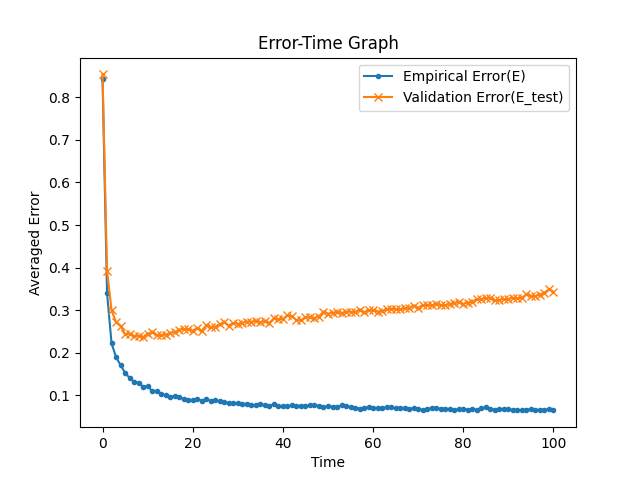
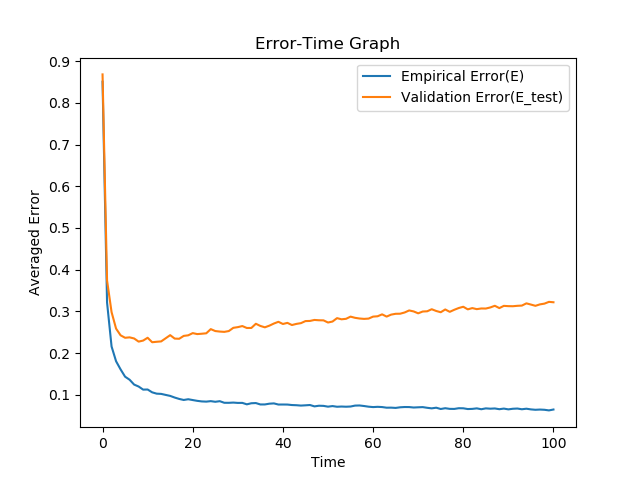
abc

diff --git a/experiment6.py b/experiment6.py
@@ -1,0 +1,160 @@
+from Network import Model
+from readdata import *
+from matplotlib import pyplot as plt
+import numpy as np
+
+"""
+Experiment Description
+----------------------
+	Effects of different learning rates on empirical and validation error
+"""
+
+R=10 #The average error on R runs of the training is taken
+
+P=200
+# Q=[int(p/2) for p in P]
+Q=200
+
+learning_rates = [0.05,0.1,0.2,0.4,0.8]
+t_max = 100 #total epochs
+
+
+Errors_for_different_LRs =[]
+Error_test_for_different_LRs = []
+
+
+
+trainX,trainY,testX,testY = read_file("xi(1).csv","tau(1).csv",P,Q)
+
+print(learning_rates)
+
+for learning_rate in learning_rates:
+	print("==================")
+	print("iteration for learning_rate = "+str(learning_rate))
+
+
+	Es = []
+	E_tests = []
+
+	for y in range(0,R):
+		print("\t Run "+str(y)+" of "+str(R))
+		model = Model(input_size=len(trainX[0]))
+
+		model.add_layer(states = 2,activation = 'tanh',fixed_weights=False)
+		model.add_layer(states =1,activation = None,fixed_weights=1)
+
+		E,E_test=model.train(trainX,trainY,testX,testY,ephochs=t_max,learning_rate=learning_rate)
+
+
+		Es.append(E)
+		E_tests.append(E_test)
+
+
+	average_E = np.average(Es,axis=0)
+	average_Etest = np.average(E_tests,axis = 0)
+
+	Errors_for_different_LRs.append(average_E)
+	Error_test_for_different_LRs.append(average_Etest)
+
+
+# print(Errors_for_different_Ps)
+
+
+for index,error in enumerate(Errors_for_different_LRs):
+	plt.plot(error,label="Learning rate ="+str(learning_rates[index]))#,label="Empirical Error(E)")
+
+
+plt.title("Error-Time Graph")
+plt.xlabel('Time')
+plt.ylabel('Average Empirical Error (E)')
+
+plt.legend()
+
+plt.savefig('Experiment6_empirical_loss_for_different_learning_rates.png')
+plt.show()
+
+
+
+for index,error in enumerate(Error_test_for_different_LRs):
+	plt.plot(error,label="Learning rate ="+str(learning_rates[index]))#,label="Empirical Error(E)")
+
+
+plt.title("Error-Time Graph")
+plt.xlabel('Time')
+plt.ylabel('Average Validation Error (E_test)')
+
+plt.legend()
+
+plt.savefig('Experiment6_validation_loss_for_different_learning_rates.png')
+plt.show()
+
+
+
+
+
+#######################
+### Now using time-dependent learning rates
+print("Using time-dependent learning rates")
+
+########################
+Errors_for_different_LRs =[]
+Error_test_for_different_LRs = []
+for learning_rate in learning_rates:
+	print("==================")
+	print("iteration for learning_rate = "+str(learning_rate))
+
+
+	Es = []
+	E_tests = []
+
+	for y in range(0,R):
+		print("\t Run "+str(y)+" of "+str(R))
+		model = Model(input_size=len(trainX[0]))
+
+		model.add_layer(states = 2,activation = 'tanh',fixed_weights=False)
+		model.add_layer(states =1,activation = None,fixed_weights=1)
+
+		E,E_test=model.train(trainX,trainY,testX,testY,ephochs=t_max,learning_rate=learning_rate,learning_rate_decay=0.01)
+
+
+		Es.append(E)
+		E_tests.append(E_test)
+
+
+	average_E = np.average(Es,axis=0)
+	average_Etest = np.average(E_tests,axis = 0)
+
+	Errors_for_different_LRs.append(average_E)
+	Error_test_for_different_LRs.append(average_Etest)
+
+
+# print(Errors_for_different_Ps)
+
+
+for index,error in enumerate(Errors_for_different_LRs):
+	plt.plot(error,label="Initial learning rate ="+str(learning_rates[index]))#,label="Empirical Error(E)")
+
+
+plt.title("Error-Time Graph")
+plt.xlabel('Time')
+plt.ylabel('Average Empirical Error (E)')
+
+plt.legend()
+
+plt.savefig('Experiment6_empirical_loss_for_different_time_dependent_learning_rates.png')
+plt.show()
+
+
+
+for index,error in enumerate(Error_test_for_different_LRs):
+	plt.plot(error,label="Initial learning rate ="+str(learning_rates[index]))#,label="Empirical Error(E)")
+
+
+plt.title("Error-Time Graph")
+plt.xlabel('Time')
+plt.ylabel('Average Validation Error (E_test)')
+
+plt.legend()
+
+plt.savefig('Experiment6_validation_loss_for_different_time_dependent_learning_rates.png')
+plt.show()

diff --git a/Network.py b/Network.py
@@ -89,7 +89,7 @@ class Model():
 
 
 
-	def train(self, x_train,y_train,x_test,y_test,ephochs=10,learning_rate=0.05,verbose=False):
+	def train(self, x_train,y_train,x_test,y_test,ephochs=10,learning_rate=0.05,learning_rate_decay=False,verbose=False,return_weights=False):
 		self.learning_rate = learning_rate
 		if x_train.shape[1]!=self.input_size:
 			print("Data shape does not match model shape")
@@ -103,6 +103,11 @@ class Model():
 		generalization_loss.append(self.__MSE(x_test,y_test))
 
 
+		initial_weights = []
+		finial_weights = []
+		if return_weights:
+			initial_weights = np.copy(self.layers[0].weights)
+
 		if verbose:
 			print("\n\n=============================")
 			print("----------------------------")
@@ -115,7 +120,6 @@ class Model():
 
 
 		for epoch in range(0,ephochs):
-			# self.display()
 			if verbose:
 				print("\n\n=============================")
 				print("Epoch "+str(epoch+1))
@@ -140,11 +144,10 @@ class Model():
 
 
 
-			
-			loss_.append(self.__MSE(x_train,y_train))
+			if not return_weights:
+				loss_.append(self.__MSE(x_train,y_train))
 
-			generalization_loss.append(self.__MSE(x_test,y_test))
-
+				generalization_loss.append(self.__MSE(x_test,y_test))
 
 			if verbose:
 				print("----------------------------")
@@ -152,5 +155,16 @@ class Model():
 				print("EPOCH VALIDATION ERROR = ",generalization_loss[-1])
 				
 				print("==========================")
+			# self.display()
 
-		return loss_,generalization_loss
+			if learning_rate_decay != False:
+				new_LR= self.learning_rate - (self.learning_rate*learning_rate_decay)
+				if new_LR > 0:
+					self.learning_rate = new_LR
+			
+
+		if return_weights:
+			return initial_weights,self.layers[0].weights
+		else:
+			return loss_,generalization_loss
+

diff --git a/experiment4.py b/experiment4.py
@@ -1,0 +1,63 @@
+from Network import Model
+from readdata import *
+from matplotlib import pyplot as plt
+
+"""
+Experiment Description
+----------------------
+	Return display the initial and final weights of the network
+"""
+
+
+P=200
+Q=100
+
+learning_rate = 0.05
+t_max = 100 #total epochs
+
+trainX,trainY,testX,testY = read_file("xi(1).csv","tau(1).csv",P,Q)
+
+
+
+model = Model(input_size=len(trainX[0]))
+
+model.add_layer(states = 2,activation = 'tanh',fixed_weights=False)
+model.add_layer(states =1,activation = None,fixed_weights=1)
+
+# model.display()
+
+# print(trainX.shape)
+initial_weights,final_weights=model.train(trainX,trainY,testX,testY,ephochs=t_max,learning_rate=learning_rate,return_weights=True,verbose=False)
+
+# print(initial_weights)
+# print("\n==========================================\n")
+
+# print(final_weights)
+
+for w in range(0,initial_weights.shape[0]):
+	fig, axs = plt.subplots(2)
+	axs[0].bar(np.arange(initial_weights[w].size),initial_weights[w])
+	axs[0].set_title('Initial w_' +str(w)+'weight vector')
+	axs[0].set_ylabel('value')
+	
+	axs[1].bar(np.arange(final_weights[w].size),final_weights[w])
+	axs[1].set_title('Final w_' +str(w)+' weight vector')
+	axs[1].set_ylabel('value')
+	axs[1].set_xlabel('feature')
+
+	plt.savefig('Experiment4_weightvector'+str(w)+'.png')
+	plt.show()
+
+# plt.plot(E,marker='.',label="Empirical Error(E)")
+# plt.title("Error-Time Graph")
+
+# plt.plot(E_test,marker='x',label="Validation Error(E_test)")
+
+
+# plt.xlabel('Time')
+# plt.ylabel('Error')
+
+# plt.legend()
+
+# plt.savefig('Experiment1.png')
+# plt.show()

diff --git a/experiment5.py b/experiment5.py
@@ -57,7 +57,7 @@ for P in P_values:
 
 
 for index,error in enumerate(Errors_for_different_Ps):
-	plt.plot(error,marker='.',label="P="+str(P_values[index]))#,label="Empirical Error(E)")
+	plt.plot(error,label="P="+str(P_values[index]))#,label="Empirical Error(E)")
 
 
 plt.title("Error-Time Graph")
@@ -72,7 +72,7 @@ plt.show()
 
 
 for index,error in enumerate(Error_test_for_different_Ps):
-	plt.plot(error,marker='x',label="P="+str(P_values[index]))#,label="Empirical Error(E)")
+	plt.plot(error,label="P="+str(P_values[index]))#,label="Empirical Error(E)")
 
 
 plt.title("Error-Time Graph")

diff --git a/experiment2.py b/experiment2.py
@@ -41,10 +41,10 @@ average_E = np.average(Es,axis=0)
 average_Etest = np.average(E_tests,axis = 0)
 
 
-plt.plot(average_E,marker='.',label="Empirical Error(E)")
+plt.plot(average_E,label="Empirical Error(E)")
 plt.title("Error-Time Graph")
 
-plt.plot(average_Etest,marker='x',label="Validation Error(E_test)")
+plt.plot(average_Etest,label="Validation Error(E_test)")
 
 
 plt.xlabel('Time')
